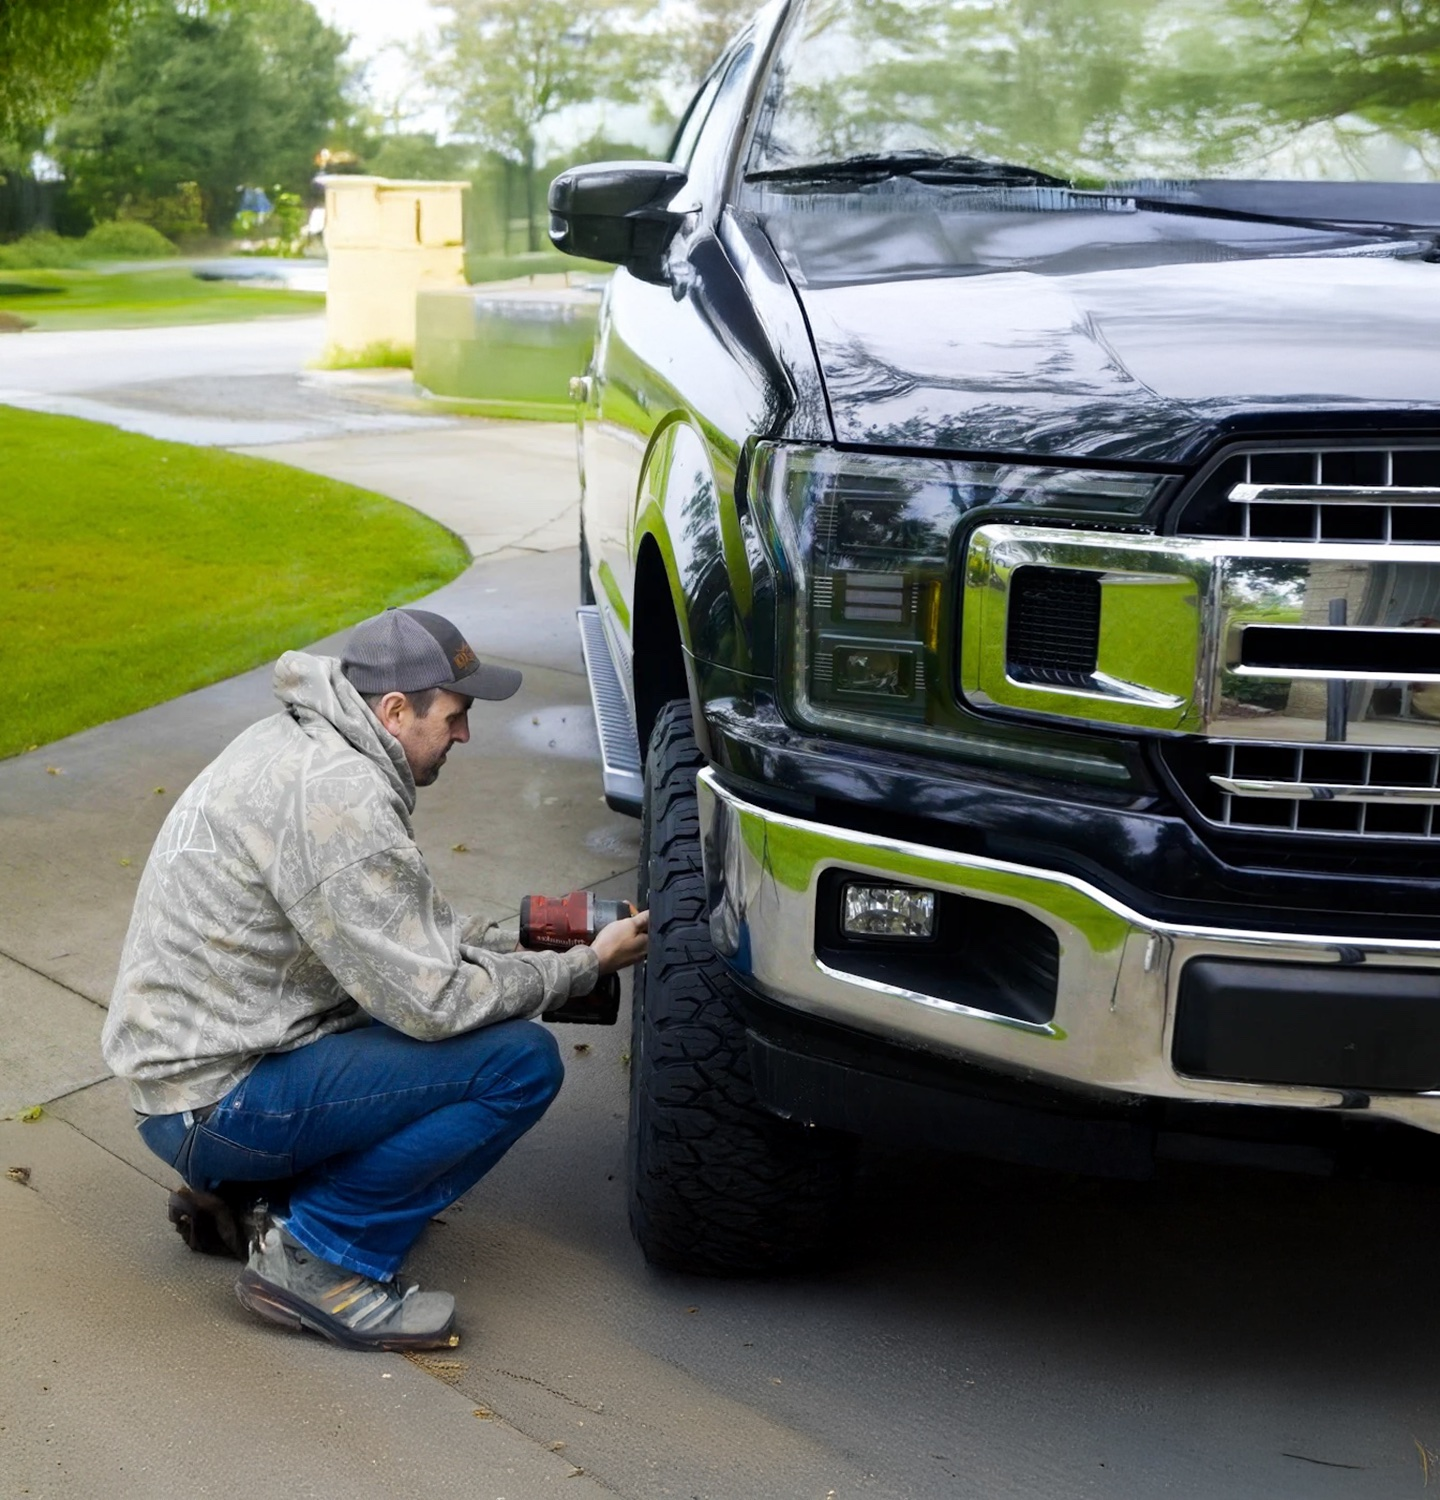
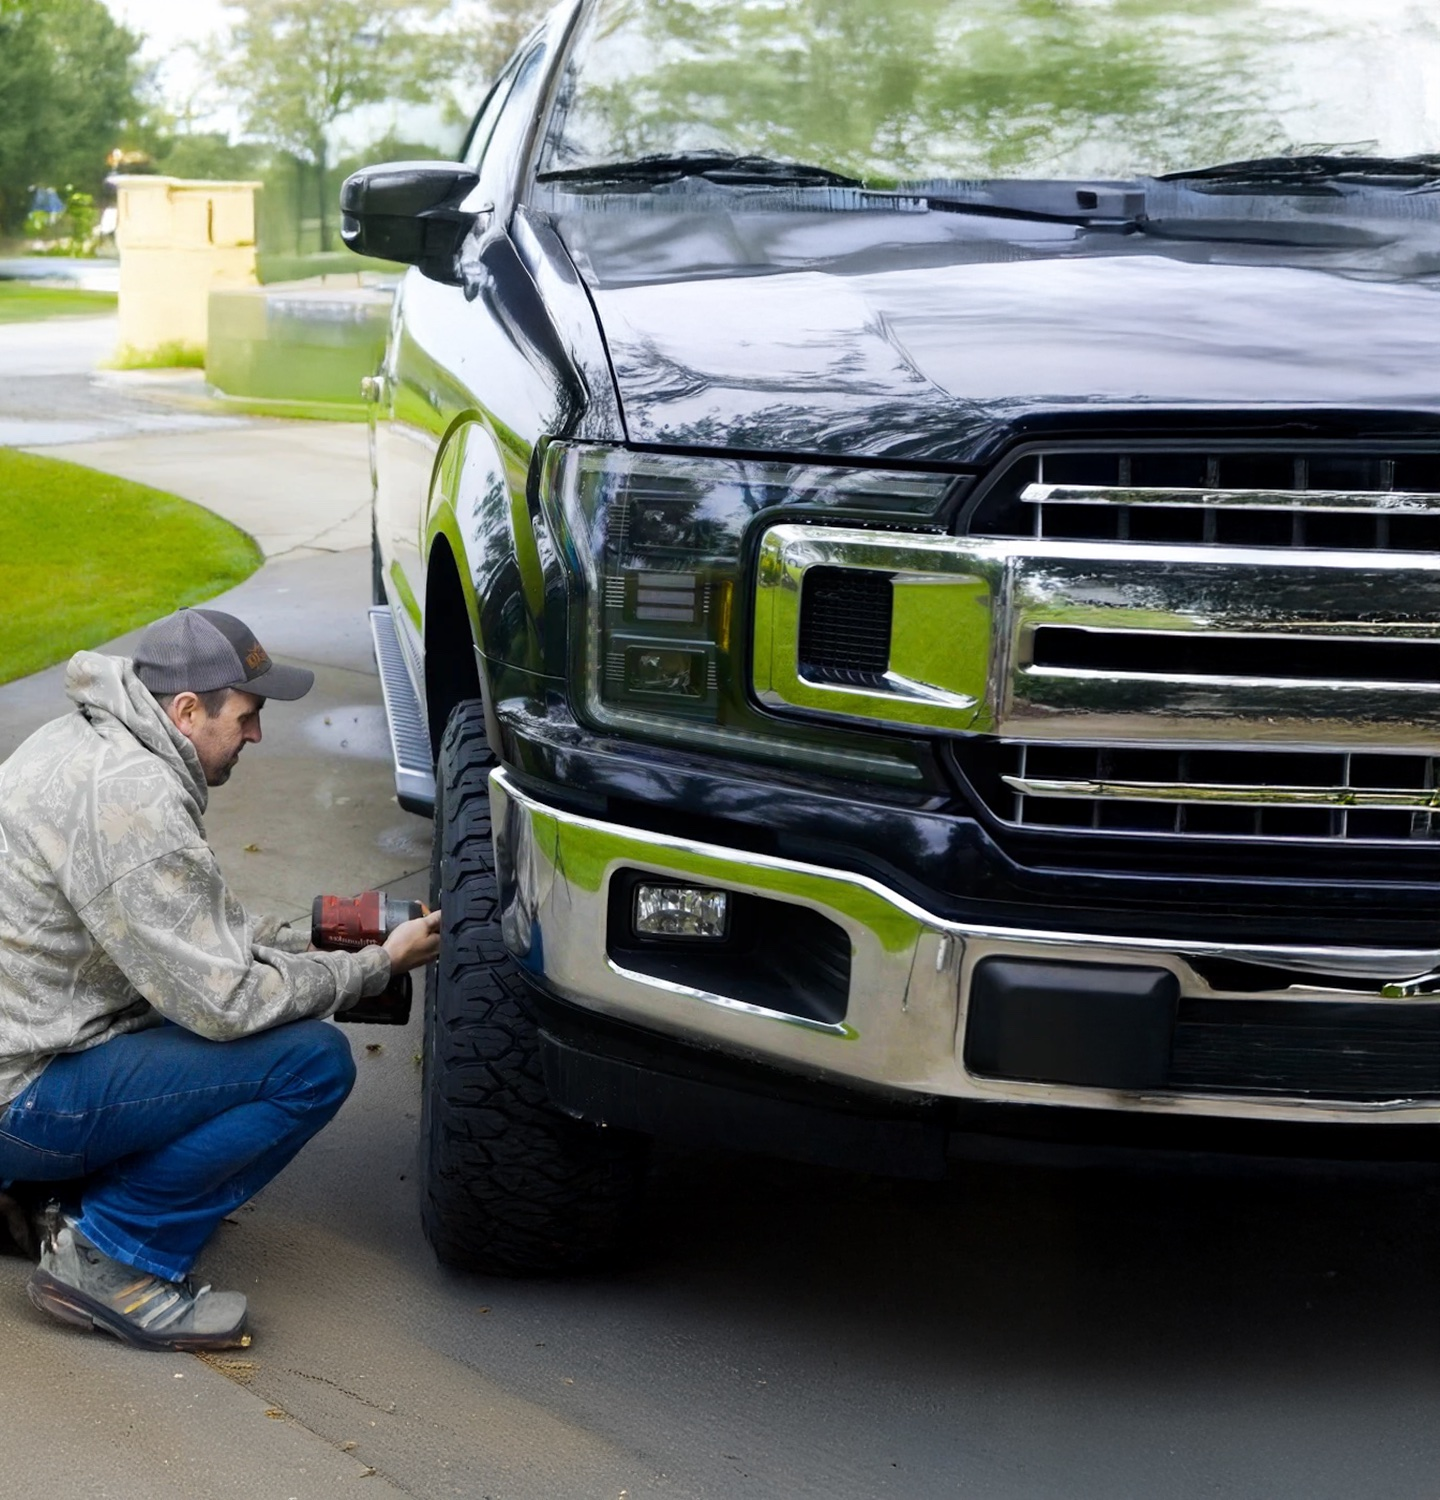
Swap in story_bg3 background photo, no CSS changes needed
Same aspect ratio as the previous photo, so the existing centered cover
crop applies as-is.

diff --git a/README.md b/README.md
@@ -796,3 +796,14 @@ already handled it without further changes - the heading sits on one line down t
 only wraps (naturally, at a sensible word boundary, not forced) on narrower phone widths where it
 cannot fit even at the clamp's minimum size. Verified no horizontal overflow at 390, 1024, and
 1440px.
+
+---
+
+## 28. Round 28: another photo swap, no CSS changes needed
+
+`story_bg3.png` (1440x1500, same near-square aspect as round 26's `story_bg2.png`) replaced
+`assets/story-background.jpg` (quality 85 JPEG, original kept at `raw-originals/story_bg3.png`).
+Same action-shot composition - worker kneeling with the impact wrench, full grille and headlight
+in frame - just a slightly wider framing. Because the aspect ratio matches the round 26 photo, the
+existing `background-size:cover;background-position:center center` needed no adjustment at all.
+Verified no horizontal overflow at 390, 820, 1001, 1024, 1280, 1440, 1920px.
